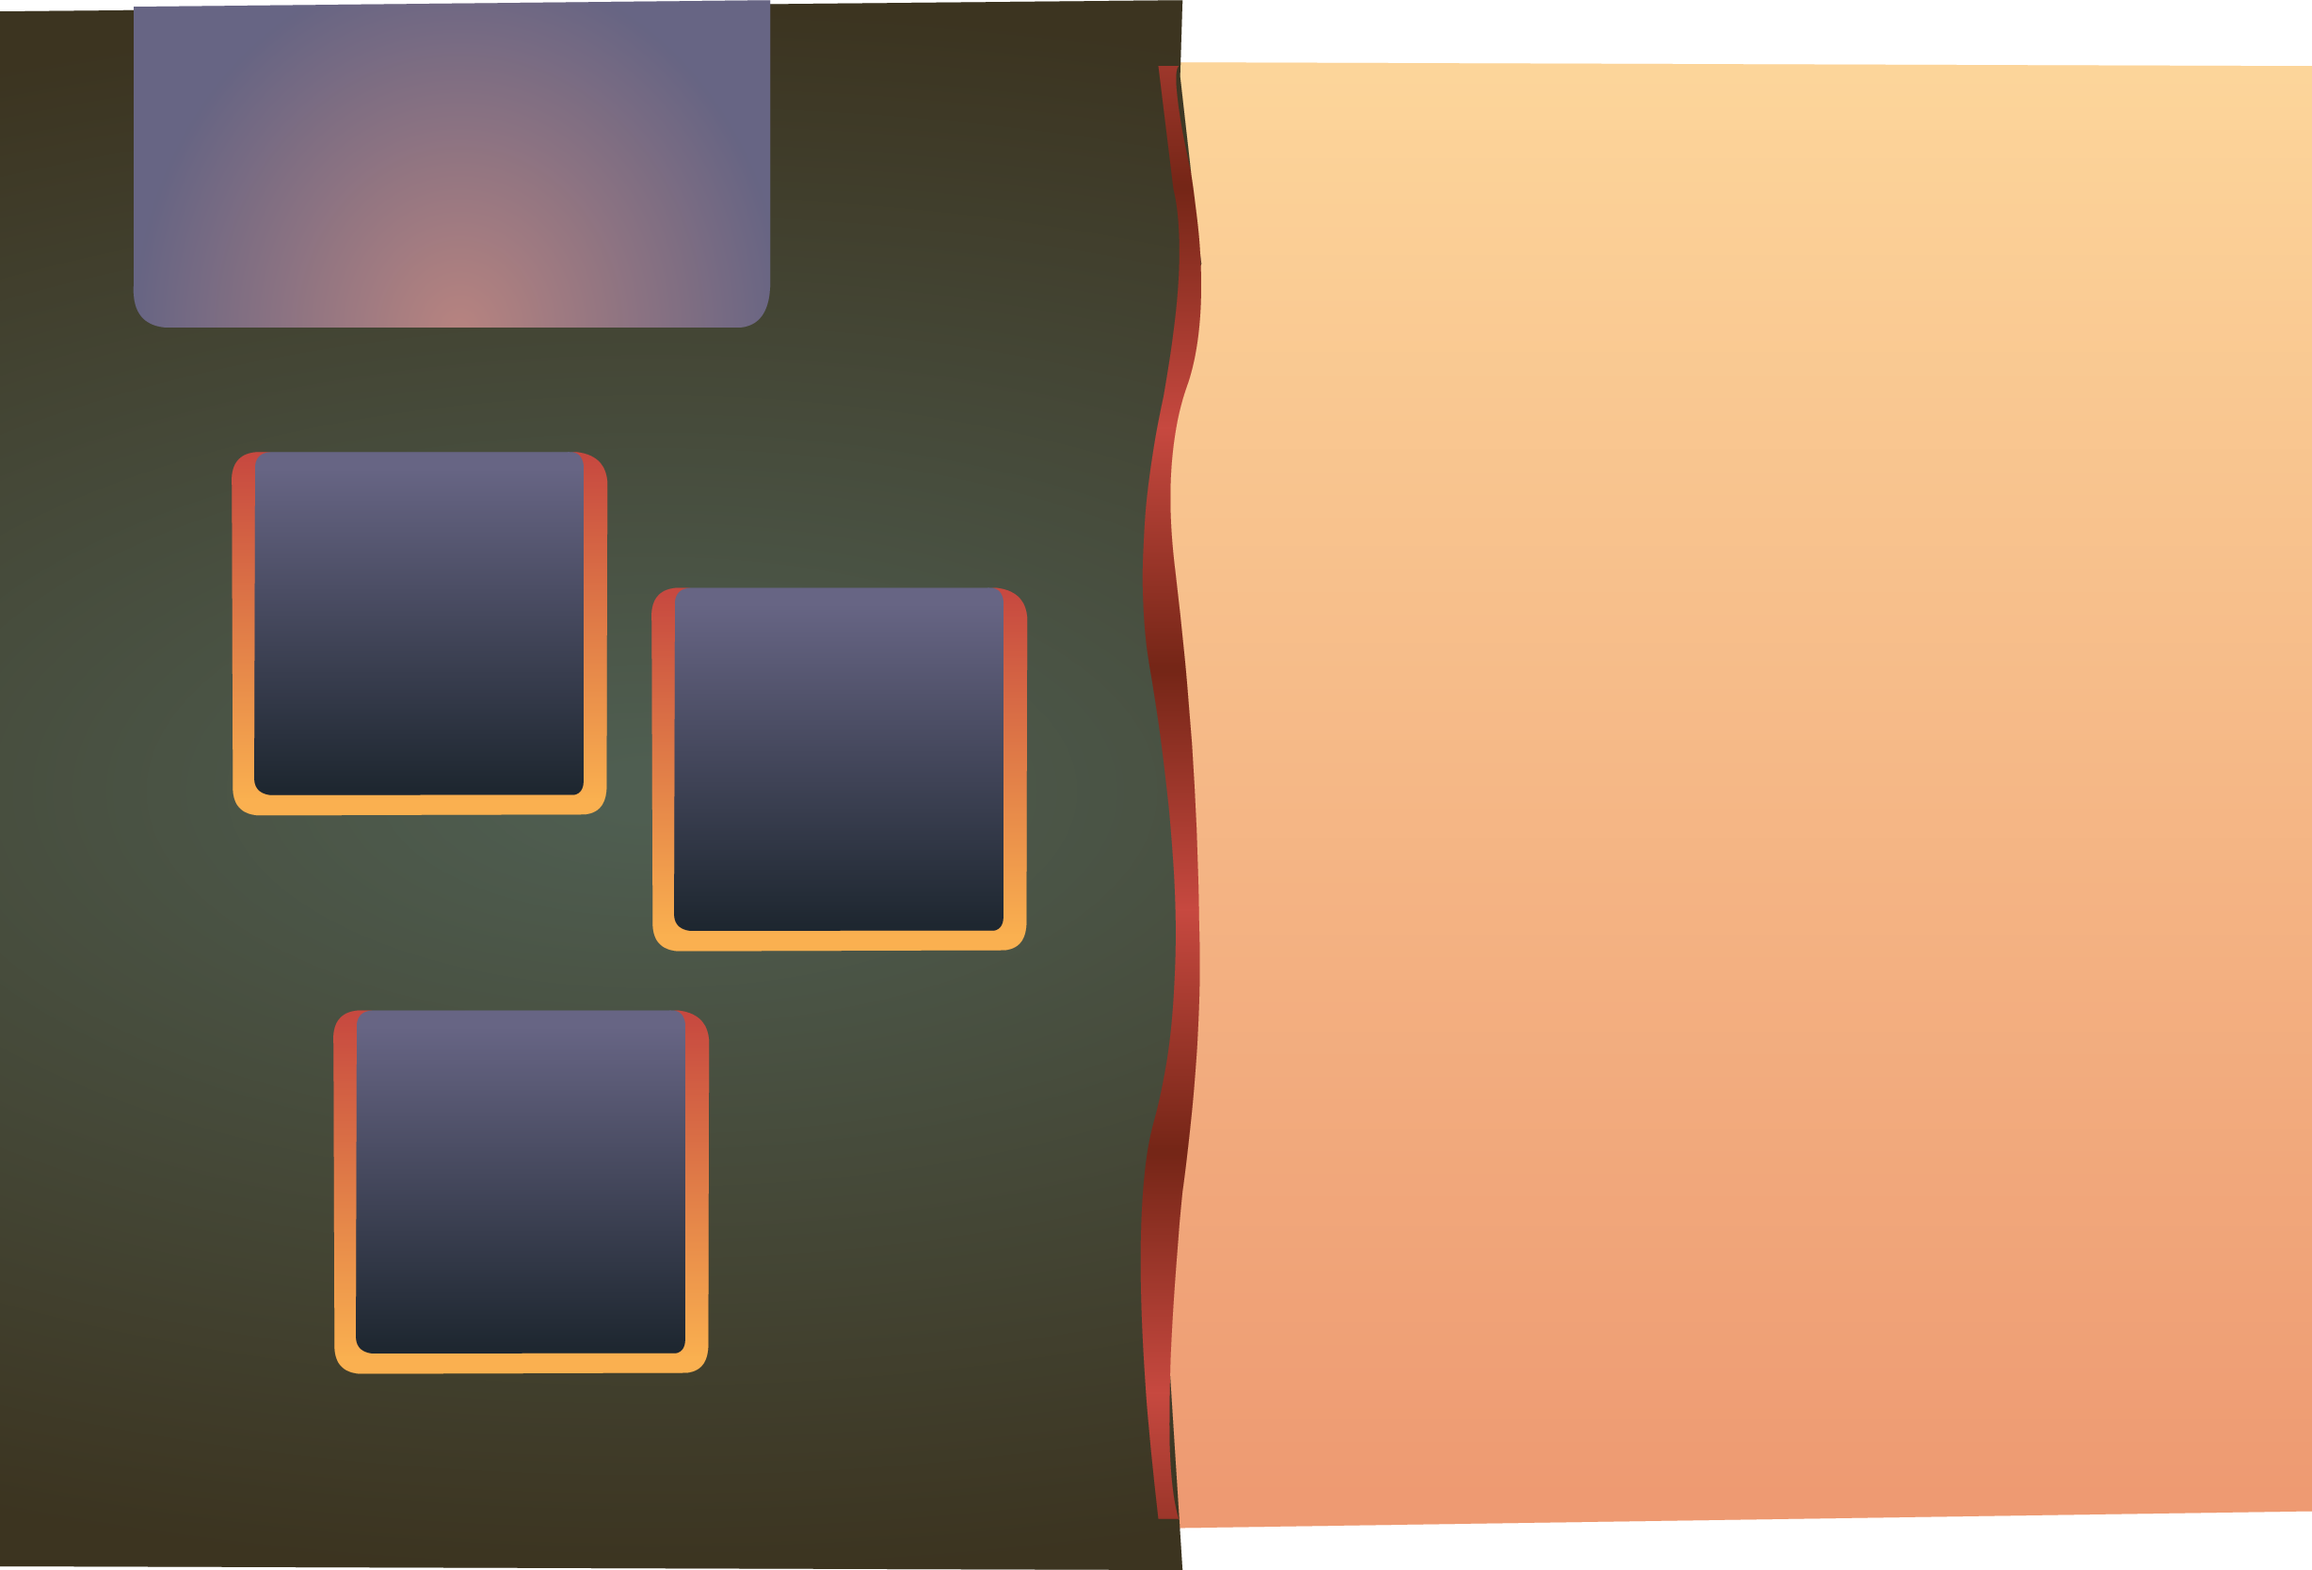
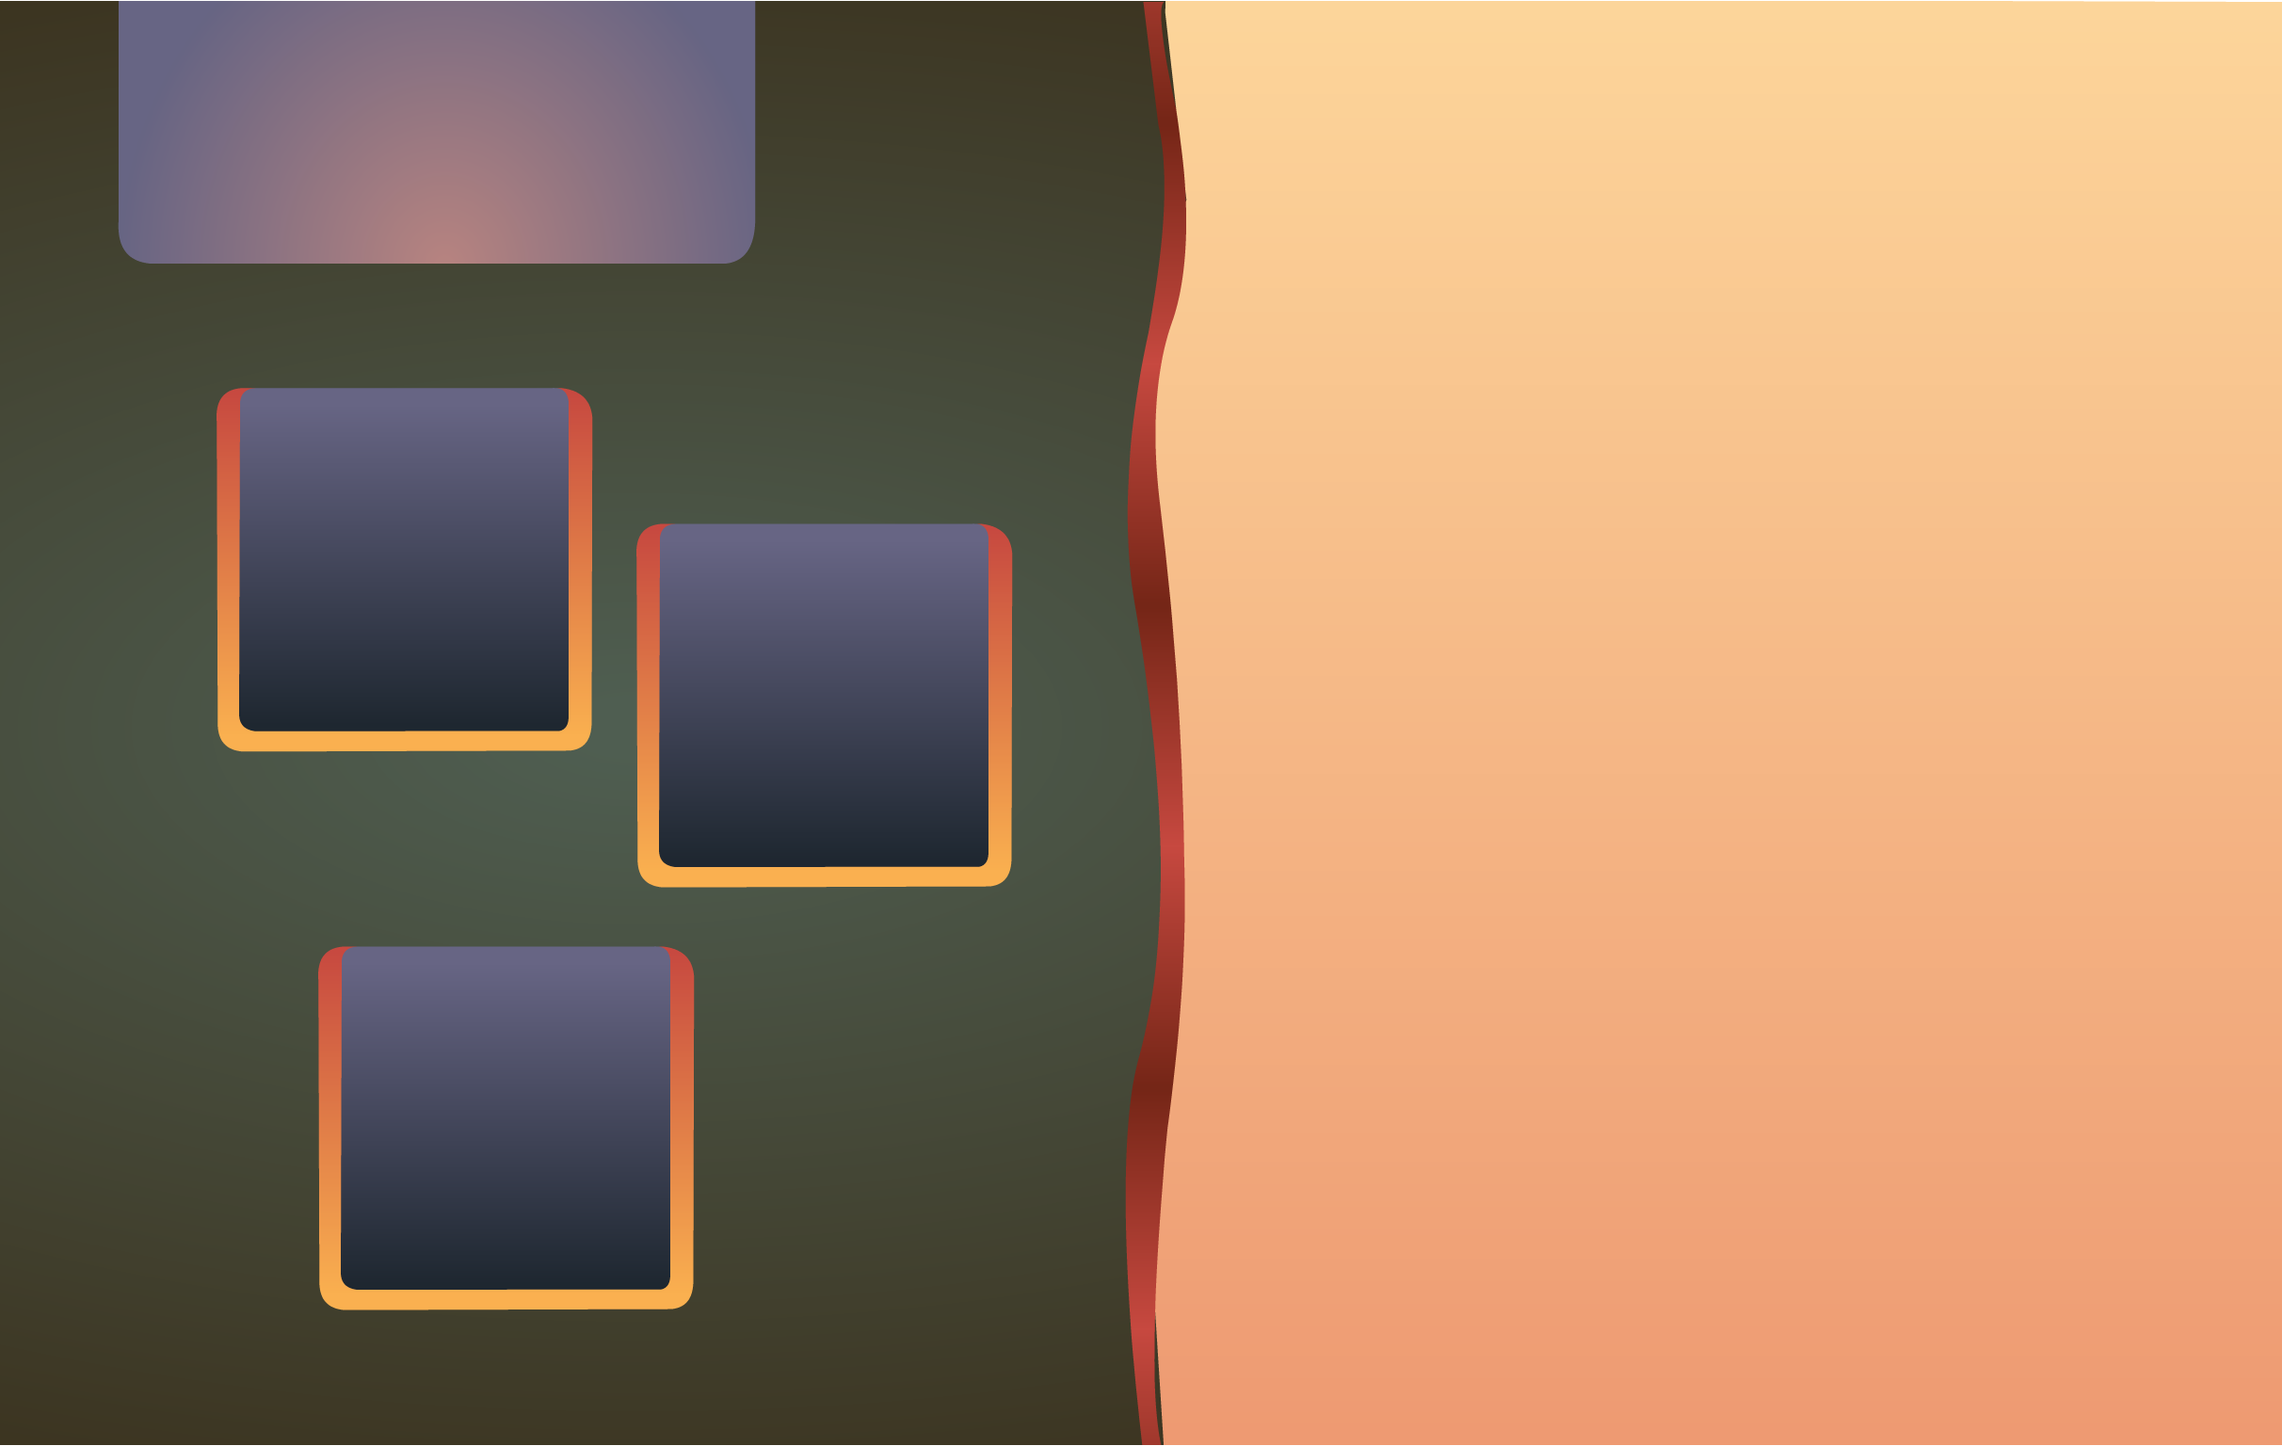
commit

diff --git a/game.html b/game.html
@@ -18,22 +18,23 @@ var game = new Phaser.Game(2424, 1536, Phaser.AUTO, '', { preload: preload, crea
 
 function preload() {
 
-    game.load.image('sky', 'assets/background.png');
-    game.load.image('ground', 'assets/platform.png');
-    game.load.image('button0', 'assets/poi.png');
+    game.load.image('background', 'assets/background.png');
+    //game.load.image('ground', 'assets/platform.png');
+    game.load.image('button2', 'assets/poi.png');
     game.load.image('button1', 'assets/cosse.png');
-    game.load.image('button2', 'assets/grappe.png');
+    game.load.image('button0', 'assets/grappe.png');
     game.load.image('truck', 'assets/truck.png');
-    game.load.spritesheet('itemDragged', 'assets/dude.png', 32, 48);
-    game.load.spritesheet('dude', 'assets/dude.png', 32, 48);
+    /*game.load.spritesheet('itemDragged', 'assets/dude.png', 32, 48);
+    game.load.spritesheet('dude', 'assets/dude.png', 32, 48);*/
 
 }
 
 var buttons;
 var itemDragged;
 
-var spriteButtons = new Array(3);
-var dragItems = new Array(3);
+var spriteButtons = new Array();
+var dragItems = new Array();
+var positions = [{x: 360, y: 1020}, {x: 700, y: 550}, {x: 250, y: 410}];
 
 var truck;
 
@@ -52,7 +53,7 @@ var itemDraggedIndex = -1;
 
 function create() {
     //  A simple background for our game
-    game.add.sprite(0, 0, 'sky');
+    game.add.sprite(0, 0, 'background');
 
 		order = game.add.group();
 
@@ -71,13 +72,15 @@ function create() {
 		itemsDragged = game.add.group();
 
 		for(var i=0; i<3; i++){
-			spriteButtons[i] = buttons.create(20, 100 + 50*i, 'button' + i);
-			dragItems[i] = itemsDragged.create(20, 100 + 50*i, 'button' + i);
-			dragItems[i].alpha = 0;
-			dragItems[i].inputEnabled = true;
-			dragItems[i].input.enableDrag();
-	    dragItems[i].events.onDragStart.add(onDragStart, this);
-	    dragItems[i].events.onDragStop.add(onDragStop, this);
+			var button = buttons.create(positions[i].x, positions[i].y, 'button' + i);
+			spriteButtons.push(button);
+			var dragItem = itemsDragged.create(positions[i].x, positions[i].y, 'button' + i);
+			dragItem.alpha = 0;
+			dragItem.inputEnabled = true;
+			dragItem.input.enableDrag();
+	    dragItem.events.onDragStart.add(onDragStart, this);
+	    dragItem.events.onDragStop.add(onDragStop, this);
+			dragItems.push(dragItem);
 		}
 
     //  The score
@@ -100,7 +103,7 @@ function createNewOrder(){
 	updateOrderNbr(getRandomInt(0, 2), getRandomInt(0, 7), getRandomInt(0, 7));
 	updateTimer(30);
 	eachSecond.start();
-	updateCount(0, 0, 0);
+	updateAllCount(0, 0, 0);
 }
 
 function update() {
@@ -124,7 +127,17 @@ function updateTimer(newValue){
 	timerText.text = timer + "s";
 }
 
-function updateCount(poi, cosse, grappe){
+function addCount(index){
+	if(count[index] < 9)
+		count[index]++;
+	else {
+		count[index] = 0;
+		if(index > 0)
+			count[index-1]++;
+	}
+	updateCountText();
+}
+function updateAllCount(poi, cosse, grappe){
 	count = [poi, cosse, grappe];
 	updateCountText();
 }
@@ -136,24 +149,15 @@ function onDragStart (sprite, pointer) {
 	sprite.alpha = 1;
 }
 function onDragStop (sprite, pointer) {
-	if(checkOverlap(truck, sprite)){
-		sprite.x = 20;
-		switch (sprite) {
-			case dragItems[0]:
-				count[2]++;
-				sprite.y = 100;
-				break;
-			case dragItems[1]:
-				count[1]++;
-				sprite.y = 150;
-				break;
-			case dragItems[2]:
-				count[0]++;
-				sprite.y = 200;
-				break;
-			default:
-				break;
+	var index = 0;
+	for(var i=0; i<3; i++){
+		if(sprite == dragItems[i]){
+			index = i;
 		}
+	}
+
+	if(checkOverlap(truck, sprite)){
+		addCount(index);
 		updateCountText();
 		sprite.alpha = 0;
 
@@ -162,30 +166,8 @@ function onDragStop (sprite, pointer) {
 	else{
 
 	}
-}
-
-function changeOrderCount (newValue) {
-	switch (newValue) {
-		case 1:
-			count[2]++;
-			break;
-		case 10:
-			count[1]++;
-			break;
-		case 100:
-			count[0]++;
-			break;
-		default:
-			break;
-	}
-
-	if(count == orderNbr){
-		checkOrderComplete();
-	}
-}
-function addScore (newValue) {
-	score += newValue;
-	scoreText.text = "Score : " + score;
+	sprite.x = positions[index].x;
+	sprite.y = positions[index].y;
 }
 
 function checkOrderComplete(){
@@ -195,6 +177,11 @@ function checkOrderComplete(){
 	}
 	addScore(10);
 	resetOrder();
+}
+
+function addScore (newValue) {
+	score += newValue;
+	scoreText.text = "Score : " + score;
 }
 
 function resetOrder(){
